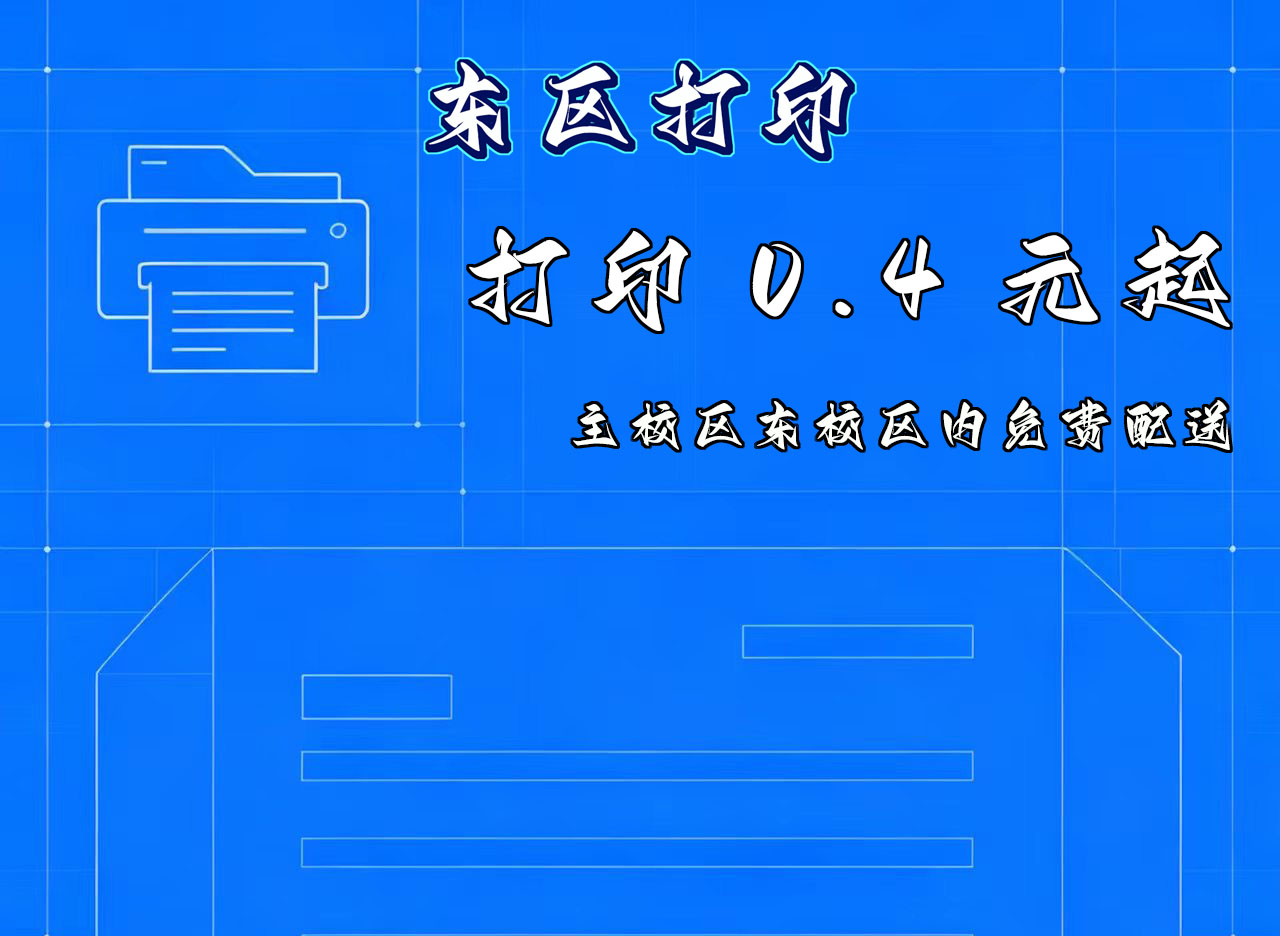
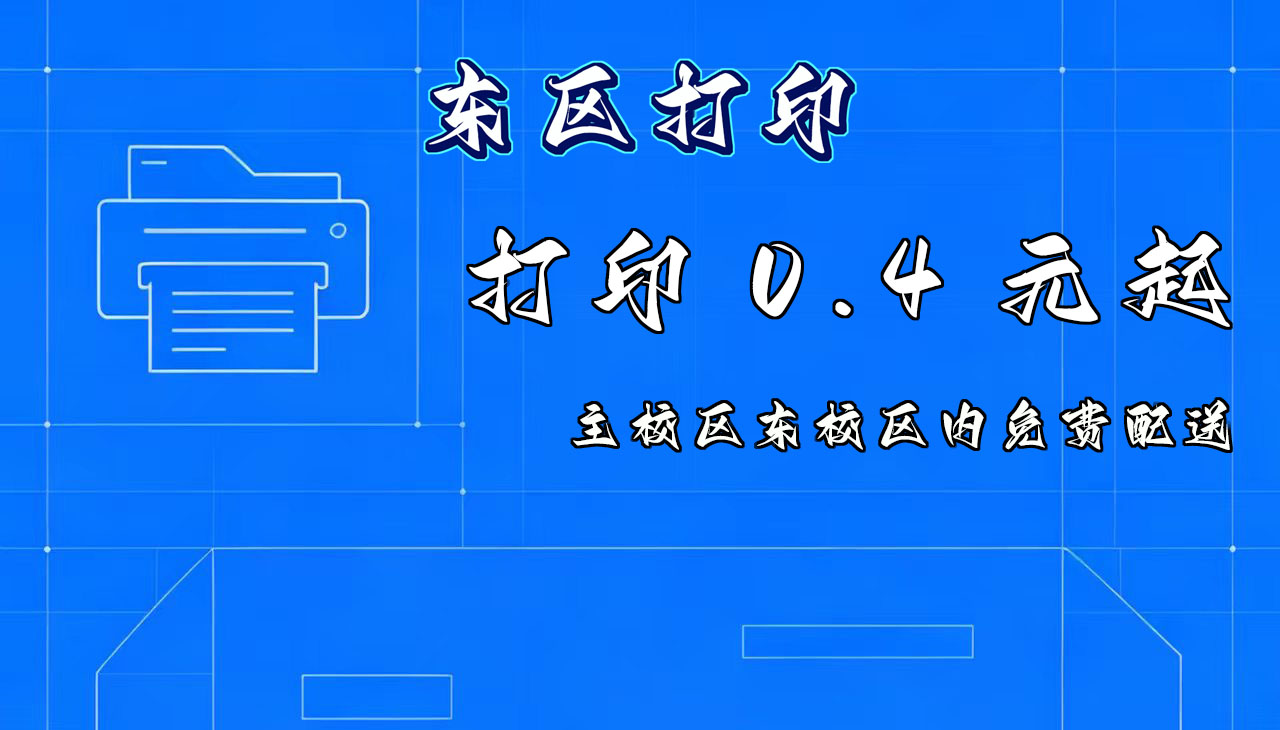
修改了index.html照片

diff --git a/css/homestyle.css b/css/homestyle.css
@@ -35,7 +35,7 @@ body {
     overflow: hidden;
     margin: 0 auto 12px auto;       /* ✅ 居中，去掉负边距 */
     background: #eef3fc;
-    border-radius: 0 0 20px 20px;
+    border-radius: 0;
 }
 
 .hero-image {
@@ -43,7 +43,7 @@ body {
     width: 100%;
     height: 100%;                   /* ✅ 跟随父容器高度 */
     overflow: hidden;
-    border-radius: 20px;
+    border-radius: 0;
 }
 
 .hero-image img {
@@ -63,12 +63,12 @@ body {
     height: 100%;
     background: linear-gradient(to top,
         #ffffff 0%,
-        #ffffff 30%,
-        rgba(255, 255, 255, 0) 60%,
+        #ffffff 10%,
+        rgba(255, 255, 255, 0) 50%,
         rgba(255, 255, 255, 0) 100%
     );
     pointer-events: none;
-    border-radius: 20px;
+    border-radius: 0;
 }
 
 /* 标题浮层 —— 位于渐变底部 */
